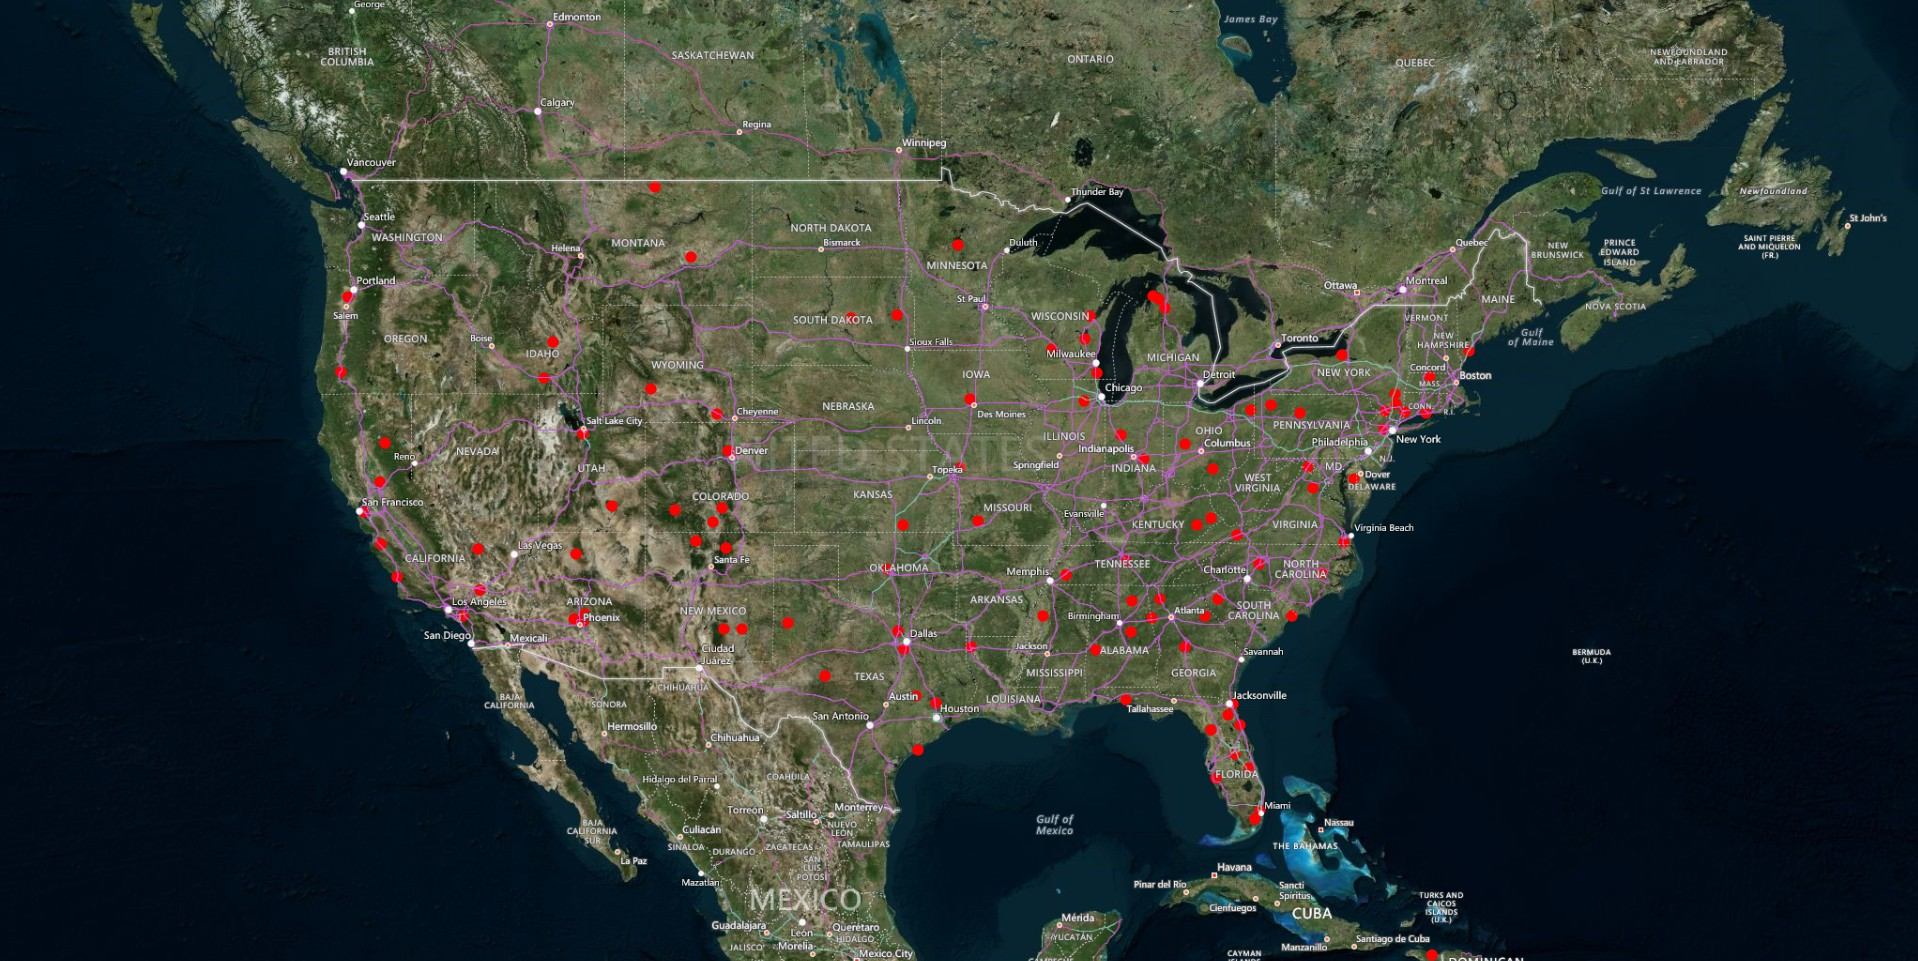
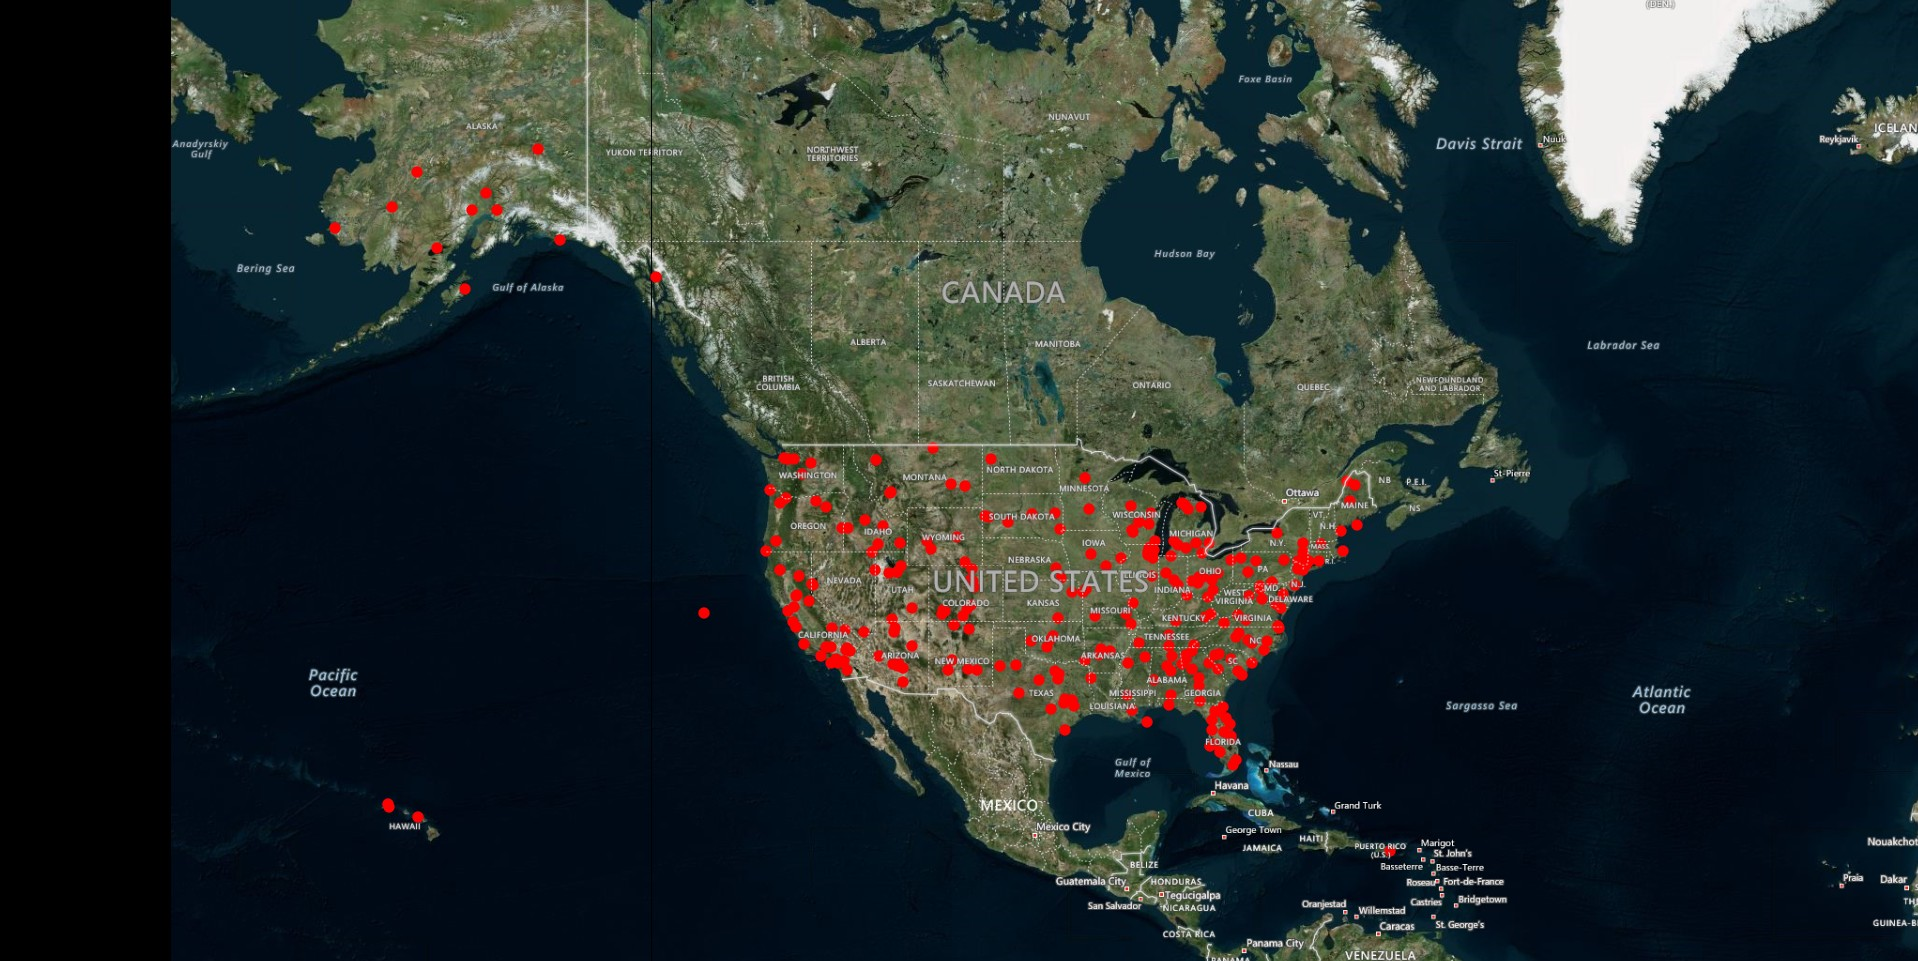
Made a change to fix the latitude and longitude for plotting the fatal accidents

diff --git a/apps/export_fatalities_latlon.py b/apps/export_fatalities_latlon.py
@@ -65,36 +65,40 @@ with db_utils.get_postgres_connection() as conn_pg:
        ev_id,
        ev_year,
        inj_tot_f,
-       latitude,
-       longitude
+       dec_latitude,
+       dec_longitude
     FROM
         events
     WHERE
         inj_tot_f > 0 AND
         ev_year >= 2011 AND
         ev_year < 2012 AND
-        latitude <> 'None' AND
-        longitude <> 'None' AND
-        latitude <> '       '
+        ev_country = 'USA'
     ORDER BY
         ev_year;
         """,
         conn_pg,
     )
 print(data_df["ev_id"][0], data_df["ev_year"][0], data_df["inj_tot_f"][0])
-print(f'<{data_df["latitude"][0]}>', data_df["longitude"][0])
+print(f'<{data_df["dec_latitude"][0]}>', data_df["dec_longitude"][0])
 
 ptArray = []
-for lat, lon in zip(data_df["latitude"], data_df["longitude"]):
-    print(lat, lon, lat[0:2], lat[2:4])
-    d_lat = float(lat[0:2]) + float(lat[2:4]) / 60.0 + float(lat[4:6]) / 3600.0
-    d_lon = float(lon[0:3]) + float(lon[3:5]) / 60.0 + float(lon[5:7]) / 3600.0
-    if lat[6] == "S":
-        d_lat *= -1
-    if lon[7] == "W":
-        d_lon *= -1
+for lat, lon in zip(data_df["dec_latitude"], data_df["dec_longitude"]):
+    d_lat = lat
+    d_lon = lon
+    # print(lat, lon, lat[0:2], lat[2:4])
+    # d_lat = float(lat[0:2]) + float(lat[2:4]) / 60.0 + float(lat[4:6]) / 3600.0
+    # d_lon = float(lon[0:3]) + float(lon[3:5]) / 60.0 + float(lon[5:7]) / 3600.0
+    # if lat[6] == "S":
+    #     d_lat *= -1
+    # if lon[7] == "W":
+    #     d_lon *= -1
     print(f"The latitude <{d_lat}> and the longitude <{d_lon}>")
     pt = io_point(d_lon, d_lat, "test1")
     ptArray.append(pt.transform_crs(new_crs=3857))
 shapeDict = {"Points": ptArray}
 createPtShapefile("testPts", shapeDict=shapeDict)
+
+# dec_latitude <> 'None' AND
+#         dec_longitude <> 'None' AND
+#         latitude <> '       ' AND
